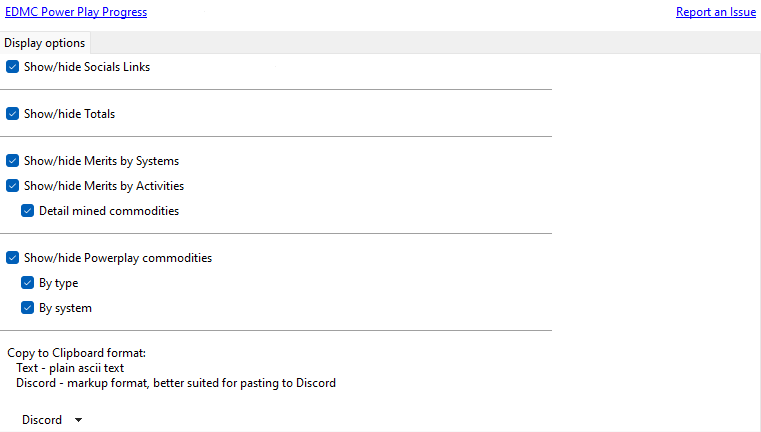
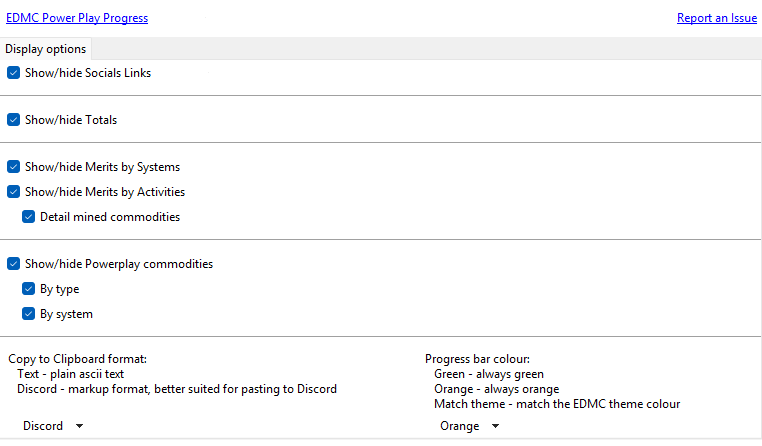
Readme & screenshot update

diff --git a/README.md b/README.md
@@ -6,7 +6,7 @@ EDMC-PowerPlayProgress is a EDMC addon that assists Elite Dangerous cmdrs to tra
 
 <img src="screen_shot.png"> <img src="screen_shot_dark.png">
 
-* Visual progress between ranks
+* IMPROVED: Visual progress between ranks, cleared progress bar and customisible
 * NEW: Links to Reddit and Discord sites for your Power
 * Total merits between dock/death events 
 * Merits gained per system
@@ -21,21 +21,22 @@ EDMC-PowerPlayProgress is a EDMC addon that assists Elite Dangerous cmdrs to tra
   * Bounties
   * Power play deliveries
   * Donation and aid missions
-  * NEW: Scan Data Links
-  * NEW: Holoscreen Hacks
-  * NEW: Rare Goods
-  * NEW: Salvage
-  * NEW: Cartograhy
-  * NEW: High Value Commodities
-  * NEW: Low Value Commodities
-  * NEW: Exobiology
-  * NEW: Mined Commodities
-  * NEW: on Foot activities
+  * Scan Data Links
+  * Holoscreen Hacks
+  * Rare Goods
+  * Salvage
+  * Cartograhy
+  * High Value Commodities
+  * Low Value Commodities
+  * Exobiology
+  * Mined Commodities
+  * On Foot activities
   * Unknowns (the journals have limited infomation so some will slip through the net when assigning them!)
 
   Will continue to improve the tracking and correct assignment to the correct systems but the current journal info is a limiting factor... :(
 
-* NEW: Preferences to show/hide all recorded info
+* Preferences to show/hide all recorded info
+  * NEW: Customisble progress bar colour, green, orange or match the EDMC theme
 
   <img src="screen_shot_preferences.png" width="500" height="300">
 
